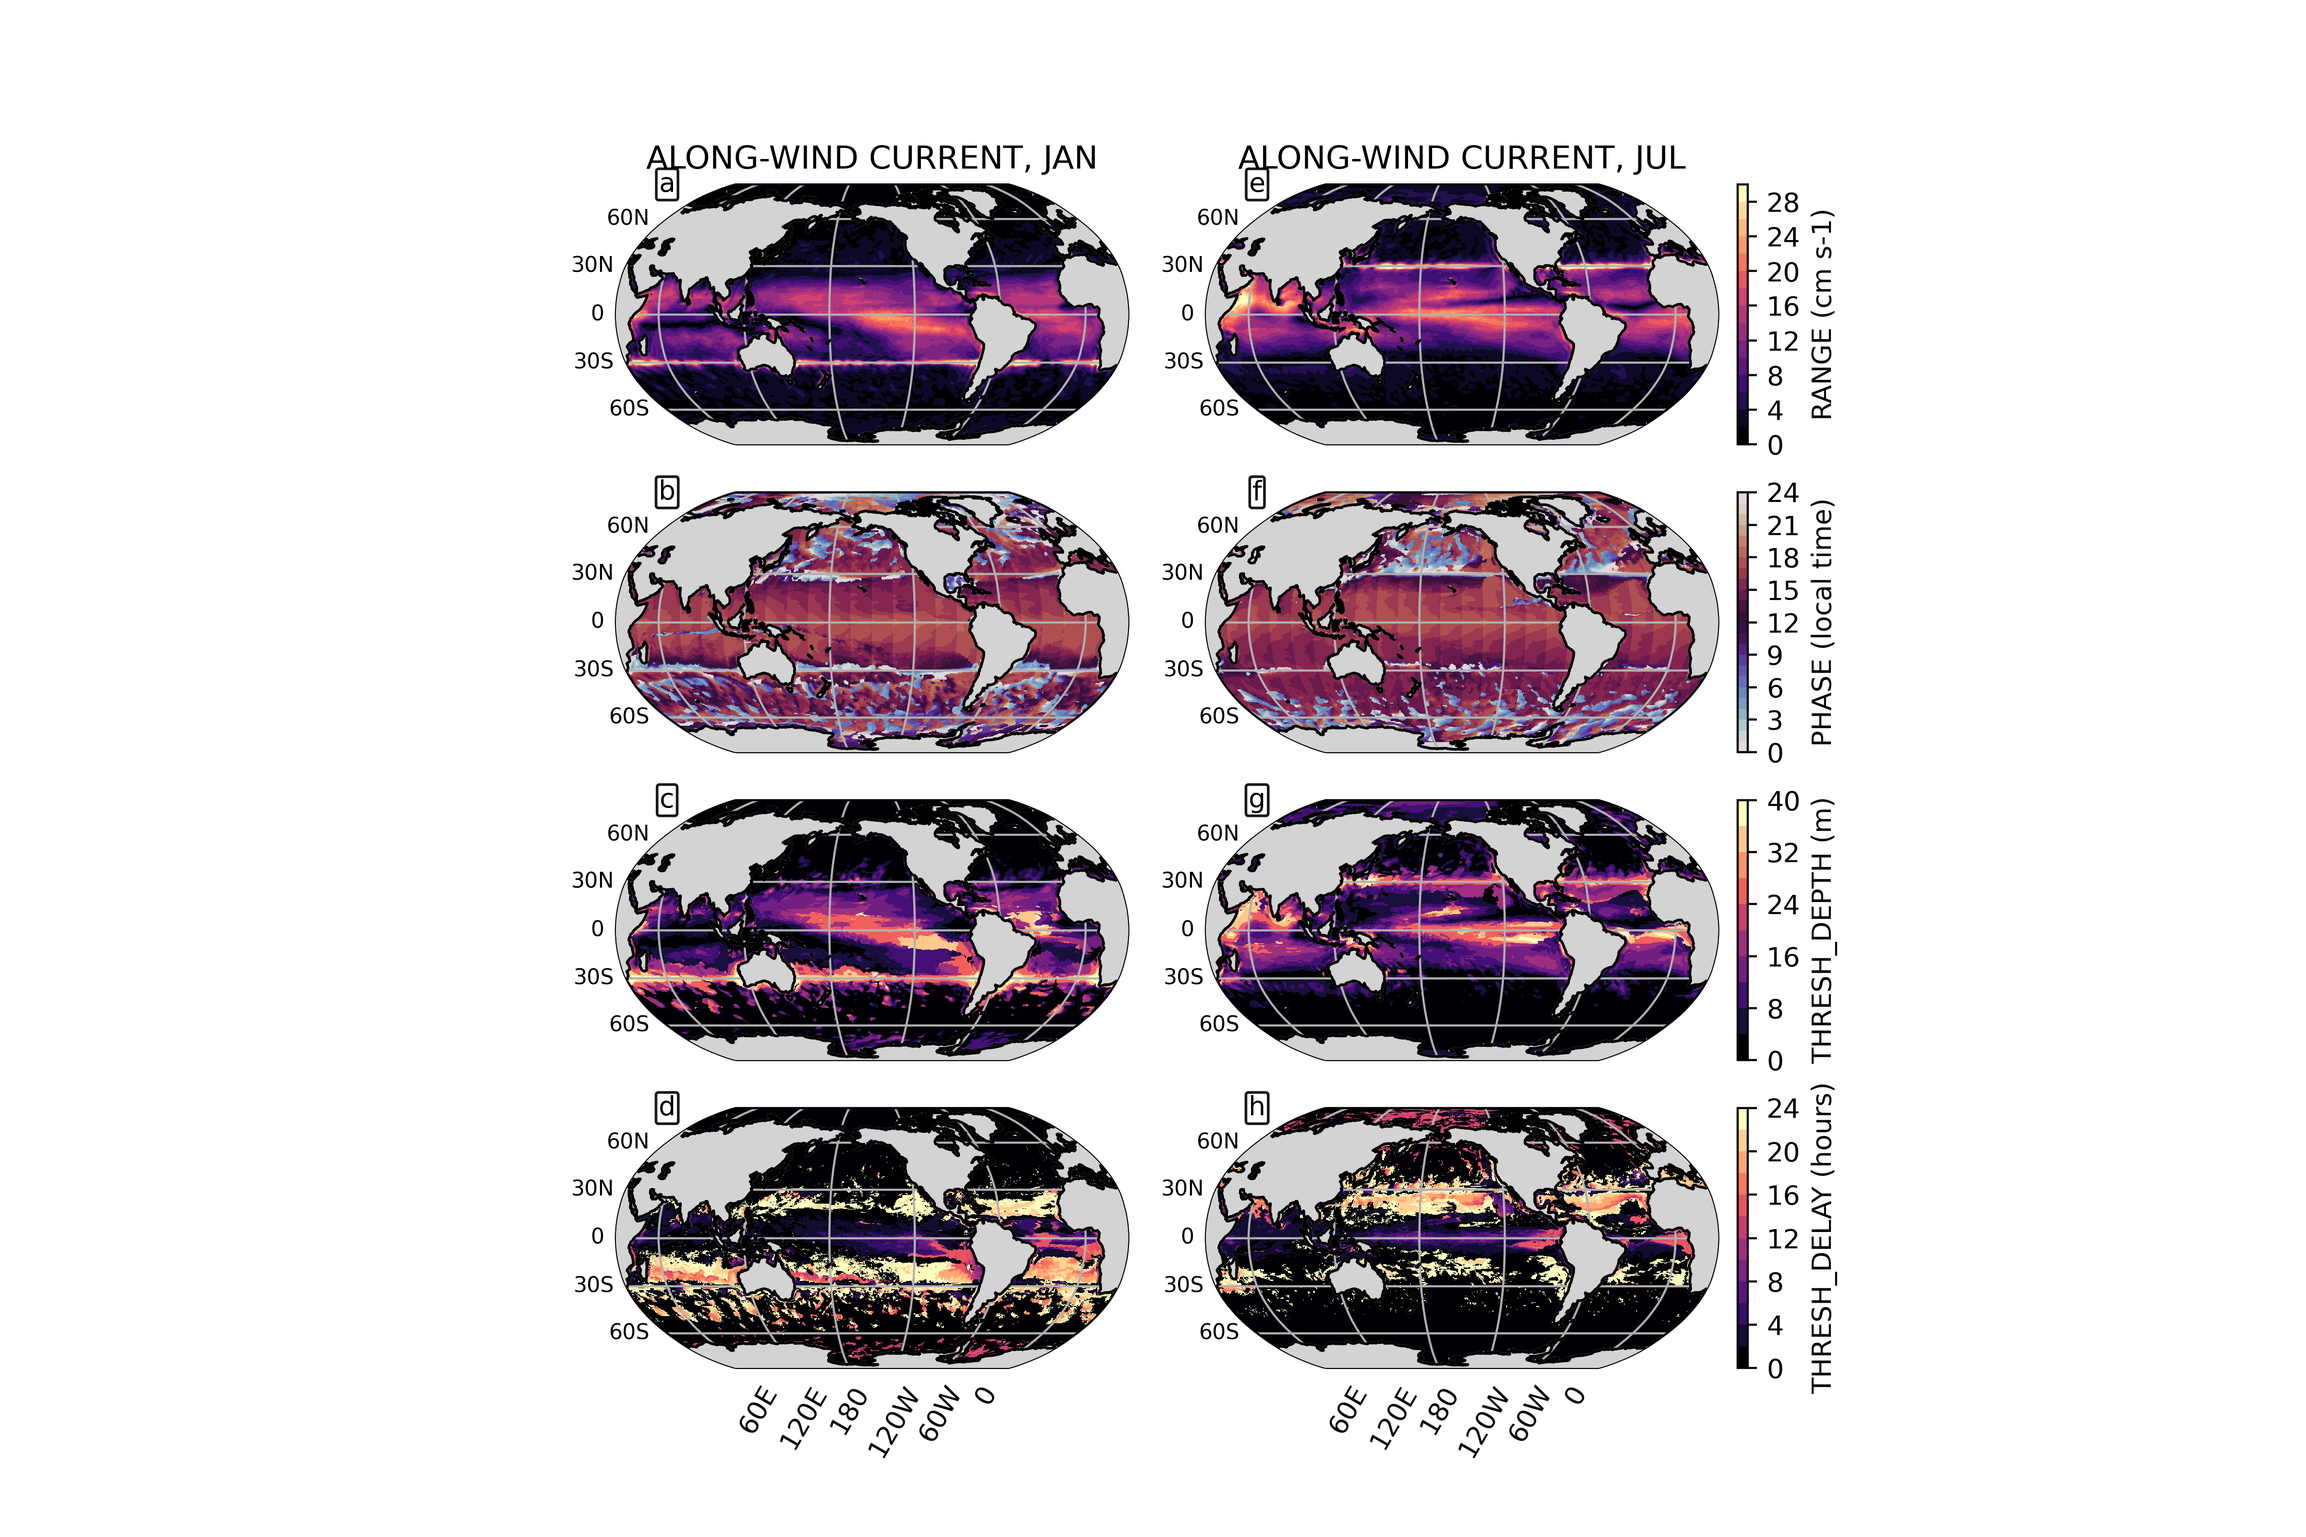
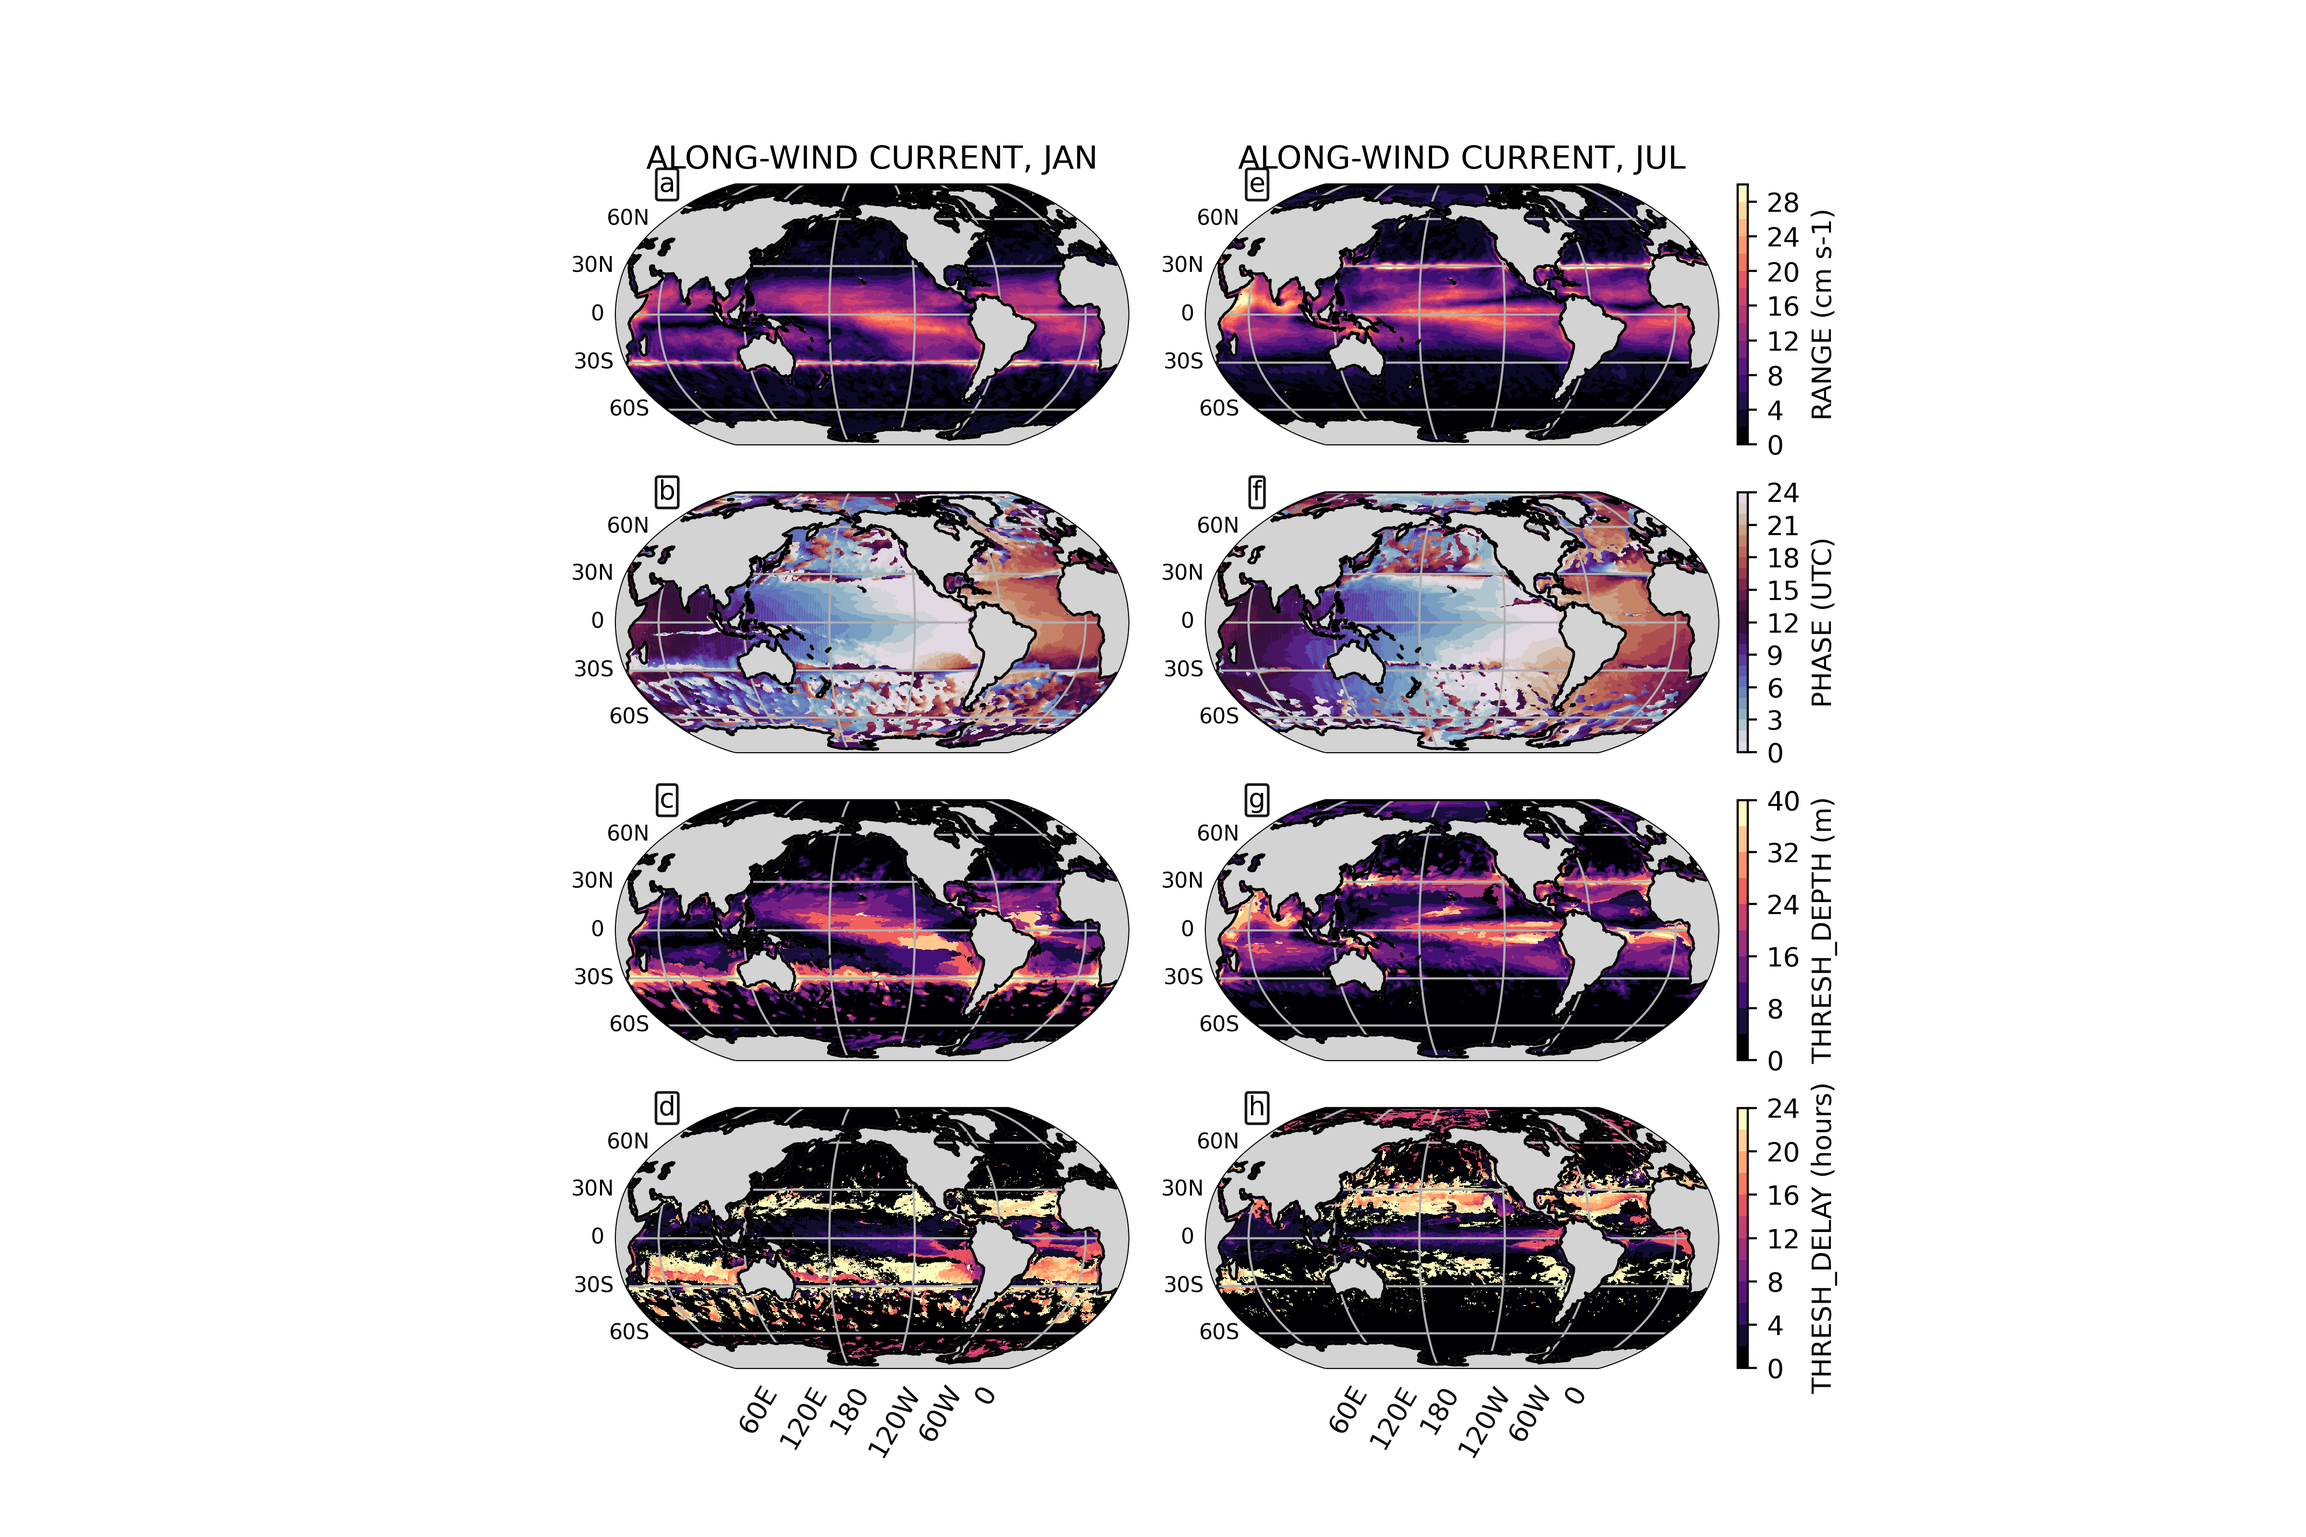
Adds/amends plots for draft paper.

Changed region(s): [[0.5312, 0.3125, 0.75, 0.5], [0.25, 0.3125, 0.4688, 0.5], [0.7812, 0.3438, 0.8125, 0.4688]]

diff --git a/diurnal_cycle/analysis/current_monthly_mean_maps.py b/diurnal_cycle/analysis/current_monthly_mean_maps.py
@@ -1,0 +1,186 @@
+"""Plots maps of current and wind components.
+Usage:
+    $ python current_monthly_mean_maps.py plot_month plot_var
+where:
+    plot_month is 'ANN' 
+               or an individual month (1-12) 
+               or a comma separated list of months (e.g., "1,2,12")
+    plot_var is one of {u, v, tau_x, tau_y}
+"""
+#------------------------------------------------------------------------------
+import sys
+import os
+import re
+import xarray as xr
+import numpy as np
+import matplotlib
+import matplotlib.pyplot as plt
+import matplotlib.ticker as mticker
+import matplotlib.dates as mdates
+from matplotlib import cm, gridspec, rcParams, colors
+from matplotlib.offsetbox import AnchoredText
+from mpl_toolkits.axes_grid1 import AxesGrid
+import cartopy.crs as ccrs
+import cartopy.feature as cfeature
+from cartopy.mpl.geoaxes import GeoAxes
+from cartopy.mpl.ticker import LongitudeFormatter, LatitudeFormatter
+import sys
+import utils
+#----------------
+from diurnal_range_maps import switch_lon_lims, get_filelist
+#------------------------------------------------------------------------------
+
+def main(plot_month, plot_var):
+    
+    """ For reference:
+    Atmo dimensions:    (time: 1, hour: 24, height: 1, lat: 190, lon: 384)
+    Ocean dimensions:   (time: 1, hour: 24, st_ocean: 20, yt_ocean: 410, xt_ocean: 720,
+                         yu_ocean: 410, xu_ocean: 720)
+    """
+
+    # Define some useful constants.
+    ddir = '/lustre/f2/dev/ncep/Jack.Reeveseyre/diurnal_cycle/'
+    atmo_chunks = {'time':48, 'hour':24, 'height':1, 'lat':190, 'lon':384}
+    ocn_chunks = {'time':48, 'hour':24, 'st_ocean':20, 'yt_ocean':10,
+                  'xt_ocean':20, 'yu_ocean':10, 'xu_ocean':20}
+    
+    # Construct month string.
+    if plot_month == 'ANN':
+        month_str = 'ANN'
+    else:
+        month_names = ['JAN','FEB','MAR','APR','MAY','JUN',
+                       'JUL','AUG','SEP','OCT','NOV','DEC']
+        plot_month_list = np.array(plot_month.split(','), dtype=int)
+        if len(plot_month_list) == 1:
+            month_str = month_names[plot_month_list[0] - 1]
+        else:
+            month_str = ''.join([month_names[m-1][0]
+                                 for m in plot_month_list])
+            if month_str == 'JFD':
+                month_str = 'DJF'
+    
+    # Load data.
+    if plot_var in ['tau_x', 'tau_y']:
+        file_list = get_filelist('surface', plot_month, ddir)
+        ds = xr.open_mfdataset(file_list, chunks=ocn_chunks)[[plot_var]]
+        ds.attrs['input_files'] = file_list
+        #ds = ds.mean(dim=['time','hour'], keep_attrs=True)
+        ds = ds.mean(dim='time', keep_attrs=True).max(dim='hour', keep_attrs=True) - \
+            ds.mean(dim='time', keep_attrs=True).min(dim='hour', keep_attrs=True)
+        plot_title = 'diurnal range of ' + plot_dets(plot_var, 'plotname') + ', ' + month_str
+    elif plot_var in ['u', 'v']:
+        file_list = get_filelist('ocn', plot_month, ddir)
+        ds = xr.open_mfdataset(file_list, chunks=ocn_chunks)[[plot_var]]
+        ds.attrs['input_files'] = file_list
+        ds = ds.isel(st_ocean=0).mean(dim=['time', 'hour'], keep_attrs=True)
+        ds[plot_var] = ds[plot_var]*100.0
+        ds[plot_var].attrs['units'] = 'cm s-1'
+        ds[plot_var].attrs['long_name'] = {'u':'eastward current', 
+                                           'v':'northward current'}[plot_var]
+        print(ds)
+        plot_title = plot_dets(plot_var, 'plotname') + ' at ' + \
+            str(ds.st_ocean.data) + ' m, ' + month_str
+    else:
+        sys.exit('plot_var not recognized.')
+    
+    # Set up figure and axes.
+    fig = plt.figure(figsize=(8, 6))
+    data_crs = ccrs.PlateCarree()
+    plot_crs = ccrs.Robinson(central_longitude=-150)
+    ax = fig.add_subplot(111, projection=plot_crs)
+    ax.set_global()
+    gl = ax.gridlines(draw_labels=True,
+                      xlocs=np.arange(-300, 151, 60),
+                      ylocs=np.arange(-90, 91, 30),
+                      linewidths=0.3)
+    gl.right_labels = True
+    gl.xformatter = LongitudeFormatter(zero_direction_label=False,
+                                       degree_symbol='')
+    gl.yformatter = LatitudeFormatter(degree_symbol='')
+    ax.coastlines(zorder=5)
+    ax.add_feature(cfeature.LAND, facecolor='lightgray', zorder=4)
+    
+    # Define color map.
+    cmap_b = plt.get_cmap('BrBG')
+    norm_b = colors.BoundaryNorm(
+        np.arange(plot_dets(plot_var, 'min'),
+                  plot_dets(plot_var, 'max')*1.01,
+                  plot_dets(plot_var, 'step')),
+        ncolors=cmap_b.N
+    )
+    p = ax.pcolormesh(switch_lon_lims(ds[plot_dets(plot_var, 'lonname')].data,
+                                      -180.0),
+                      ds[plot_dets(plot_var, 'latname')].data,
+	              ds[plot_var].data,
+                      transform=data_crs,
+                      cmap=cmap_b, norm=norm_b, shading='nearest')
+    
+    # Finish up figure.
+    ax.set_title(plot_title)
+    fig.colorbar(p,
+                 label=plot_dets(plot_var, 'plotname') + ' (' +
+		     plot_dets(plot_var, 'units') + ')',
+                 ax=ax, orientation='horizontal',shrink=0.5)
+    
+    # Save file.
+    plotdir = '/ncrc/home2/Jack.Reeveseyre/cfs-analysis/diurnal_cycle/plots/'
+    plotfn = 'current_monthly_mean_map_' + \
+        plot_var + '_' + month_str + '.'
+    plotfileformat='png'
+    plt.savefig(plotdir + plotfn + plotfileformat, format=plotfileformat,
+                dpi=400)
+    #
+    return
+
+
+def plot_dets(vn, att):
+    det_dict = {
+        'tau_x':{
+	    'latname':'geolat_c',
+	    'lonname':'geolon_c',
+	    'plotname':'eastward wind stress',
+	    'min':-0.3,
+	    'max':0.3,
+	    'step':0.05,
+	    'units':'N m-2',
+	    'cmap':'BrBg'
+	},
+        'tau_y':{
+	    'latname':'geolat_c',
+	    'lonname':'geolon_c',
+	    'plotname':'northward wind stress',
+	    'min':-0.2,
+	    'max':0.2,
+	    'step':0.025,
+	    'units':'N m-2',
+	    'cmap':'BrBg'
+	},
+        'u':{
+	    'latname':'geolat_c',
+	    'lonname':'geolon_c',
+	    'plotname':'eastward current',
+	    'min':-10.0,
+	    'max':10.0,
+	    'step':2.0,
+	    'units':'cm s-1',
+	    'cmap':'BrBg'
+	},
+        'v':{
+	    'latname':'geolat_c',
+	    'lonname':'geolon_c',
+	    'plotname':'northward current',
+	    'min':-30.0,
+	    'max':30.0,
+	    'step':5.0,
+	    'units':'cm s-1',
+	    'cmap':'BrBg'
+	}
+    }
+    #
+    result = det_dict[vn][att]
+    #
+    return result
+
+
+if __name__ == "__main__": 
+    main(sys.argv[1], sys.argv[2])

diff --git a/diurnal_cycle/analysis/current_daily_range_maps.py b/diurnal_cycle/analysis/current_daily_range_maps.py
@@ -1,0 +1,162 @@
+"""Plots maps of current and wind components.
+Usage:
+    $ python current_daily_range_maps.py plot_date plot_var
+where:
+    plot_date is formatted like yyyy_mm_dd 
+    plot_var is one of {u, v}
+"""
+#------------------------------------------------------------------------------
+import sys
+import os
+import re
+import xarray as xr
+import numpy as np
+import matplotlib
+import matplotlib.pyplot as plt
+import matplotlib.ticker as mticker
+import matplotlib.dates as mdates
+from matplotlib import cm, gridspec, rcParams, colors
+from matplotlib.offsetbox import AnchoredText
+from mpl_toolkits.axes_grid1 import AxesGrid
+import cartopy.crs as ccrs
+import cartopy.feature as cfeature
+from cartopy.mpl.geoaxes import GeoAxes
+from cartopy.mpl.ticker import LongitudeFormatter, LatitudeFormatter
+import sys
+import utils
+#----------------
+from diurnal_range_maps import switch_lon_lims, get_filelist
+#------------------------------------------------------------------------------
+
+def main(plot_date, plot_var):
+    
+    """ For reference:
+    Atmo dimensions:    (time: 1, hour: 24, height: 1, lat: 190, lon: 384)
+    Ocean dimensions:   (time: 1, hour: 24, st_ocean: 20, yt_ocean: 410, xt_ocean: 720,
+                         yu_ocean: 410, xu_ocean: 720)
+    """
+
+    # Define some useful constants.
+    data_dir = '/lustre/f2/dev/ncep/JieShun.Zhu/CFSm501hr/CFSm501hr1980010200/DATA/' 
+    fn_root = 'ocn_' + plot_date 
+    atmo_chunks = {'time':48, 'hour':24, 'height':1, 'lat':190, 'lon':384}
+    ocn_chunks = {'time':48, 'hour':24, 'st_ocean':20, 'yt_ocean':10,
+                  'xt_ocean':20, 'yu_ocean':10, 'xu_ocean':20}
+     
+    # Load data.
+    if plot_var in ['u', 'v']: 
+        ds = xr.open_mfdataset(data_dir + fn_root + '*.nc', 
+                               chunks=ocn_chunks)[[plot_var]] 
+        ds = ds.isel(st_ocean=0).max(dim='time', keep_attrs=True) - \
+            ds.isel(st_ocean=0).min(dim='time', keep_attrs=True) 
+        ds[plot_var] = ds[plot_var]*100.0
+        ds[plot_var].attrs['units'] = 'cm s-1'
+        ds[plot_var].attrs['long_name'] = {'u':'eastward current', 
+                                           'v':'northward current'}[plot_var]
+        print(ds)
+        plot_title = plot_dets(plot_var, 'plotname') + ' diurnal range at ' + \
+            str(ds.st_ocean.data) + ' m, ' + plot_date
+    else:
+        sys.exit('plot_var not recognized.')
+    
+    # Set up figure and axes.
+    fig = plt.figure(figsize=(8, 6))
+    data_crs = ccrs.PlateCarree()
+    plot_crs = ccrs.Robinson(central_longitude=-150)
+    ax = fig.add_subplot(111, projection=plot_crs)
+    ax.set_global()
+    gl = ax.gridlines(draw_labels=True,
+                      xlocs=np.arange(-300, 151, 60),
+                      ylocs=np.arange(-90, 91, 30),
+                      linewidths=0.3)
+    gl.right_labels = True
+    gl.xformatter = LongitudeFormatter(zero_direction_label=False,
+                                       degree_symbol='')
+    gl.yformatter = LatitudeFormatter(degree_symbol='')
+    ax.coastlines(zorder=5)
+    ax.add_feature(cfeature.LAND, facecolor='lightgray', zorder=4)
+    
+    # Define color map.
+    cmap_b = plt.get_cmap('BrBG')
+    norm_b = colors.BoundaryNorm(
+        np.arange(plot_dets(plot_var, 'min'),
+                  plot_dets(plot_var, 'max')*1.01,
+                  plot_dets(plot_var, 'step')),
+        ncolors=cmap_b.N
+    )
+    p = ax.pcolormesh(switch_lon_lims(ds[plot_dets(plot_var, 'lonname')].data,
+                                      -180.0),
+                      ds[plot_dets(plot_var, 'latname')].data,
+	              ds[plot_var].data,
+                      transform=data_crs,
+                      cmap=cmap_b, norm=norm_b, shading='nearest')
+    
+    # Finish up figure.
+    ax.set_title(plot_title)
+    fig.colorbar(p,
+                 label=plot_dets(plot_var, 'plotname') + ' (' +
+		     plot_dets(plot_var, 'units') + ')',
+                 ax=ax, orientation='horizontal',shrink=0.5)
+    
+    # Save file.
+    plotdir = '/ncrc/home2/Jack.Reeveseyre/cfs-analysis/diurnal_cycle/plots/'
+    plotfn = 'current_daily_range_map_' + \
+        plot_var + '_' + plot_date + '.'
+    plotfileformat='png'
+    plt.savefig(plotdir + plotfn + plotfileformat, format=plotfileformat,
+                dpi=400)
+    #
+    return
+
+
+def plot_dets(vn, att):
+    det_dict = {
+        'tau_x':{
+	    'latname':'geolat_c',
+	    'lonname':'geolon_c',
+	    'plotname':'eastward wind stress',
+	    'min':-0.3,
+	    'max':0.3,
+	    'step':0.05,
+	    'units':'N m-2',
+	    'cmap':'BrBg'
+	},
+        'tau_y':{
+	    'latname':'geolat_c',
+	    'lonname':'geolon_c',
+	    'plotname':'northward wind stress',
+	    'min':-0.2,
+	    'max':0.2,
+	    'step':0.025,
+	    'units':'N m-2',
+	    'cmap':'BrBg'
+	},
+        'u':{
+	    'latname':'geolat_c',
+	    'lonname':'geolon_c',
+	    'plotname':'eastward current',
+	    'min':-10.0,
+	    'max':10.0,
+	    'step':2.0,
+	    'units':'cm s-1',
+	    'cmap':'BrBg'
+	},
+        'v':{
+	    'latname':'geolat_c',
+	    'lonname':'geolon_c',
+	    'plotname':'northward current',
+	    'min':-30.0,
+	    'max':30.0,
+	    'step':5.0,
+	    'units':'cm s-1',
+	    'cmap':'BrBg'
+	}
+    }
+    #
+    result = det_dict[vn][att]
+    #
+    return result
+
+
+if __name__ == "__main__": 
+    main(sys.argv[1], sys.argv[2])

diff --git a/diurnal_cycle/analysis/diurnal_cycle_2col_maps.py b/diurnal_cycle/analysis/diurnal_cycle_2col_maps.py
@@ -59,6 +59,12 @@ def main(plot_var, plot_month1, plot_month2):
     ds1 = xr.open_dataset(ddir + dicy_fn1, decode_timedelta=False)
     ds2 = xr.open_dataset(ddir + dicy_fn2, decode_timedelta=False)
 
+    # Add PHASE in UTC.
+    print('WARNING: converting PHASE to UTC.')
+    local_m_utc = approx_local_time(ds1)
+    ds1['PHASE'] = (ds1['PHASE'] - local_m_utc) % 24
+    ds2['PHASE'] = (ds2['PHASE'] - local_m_utc) % 24
+
     # Convert all velocities to cm s-1.
     if plot_var == 'CUR':
         for v in ['RANGE', 'RANGE_25']:
@@ -175,8 +181,12 @@ def main(plot_var, plot_month1, plot_month2):
             cb.remove()
         else:
             cb = axgr.cbar_axes[i].colorbar(p)
-            cb.set_label(ptype +
-                         ' (' + plot_dets(plot_var, 'units', ptype) + ')')
+            if ptype == 'PHASE':
+                cbl = 'PHASE (UTC)'
+            else:
+                cbl = ptype + \
+                    ' (' + plot_dets(plot_var, 'units', ptype) + ')'
+            cb.set_label(cbl) 
         
         # Add figure letters (a, b, c, etc.).
         ax.text(0.1, 1.0, fig_letters[i],
